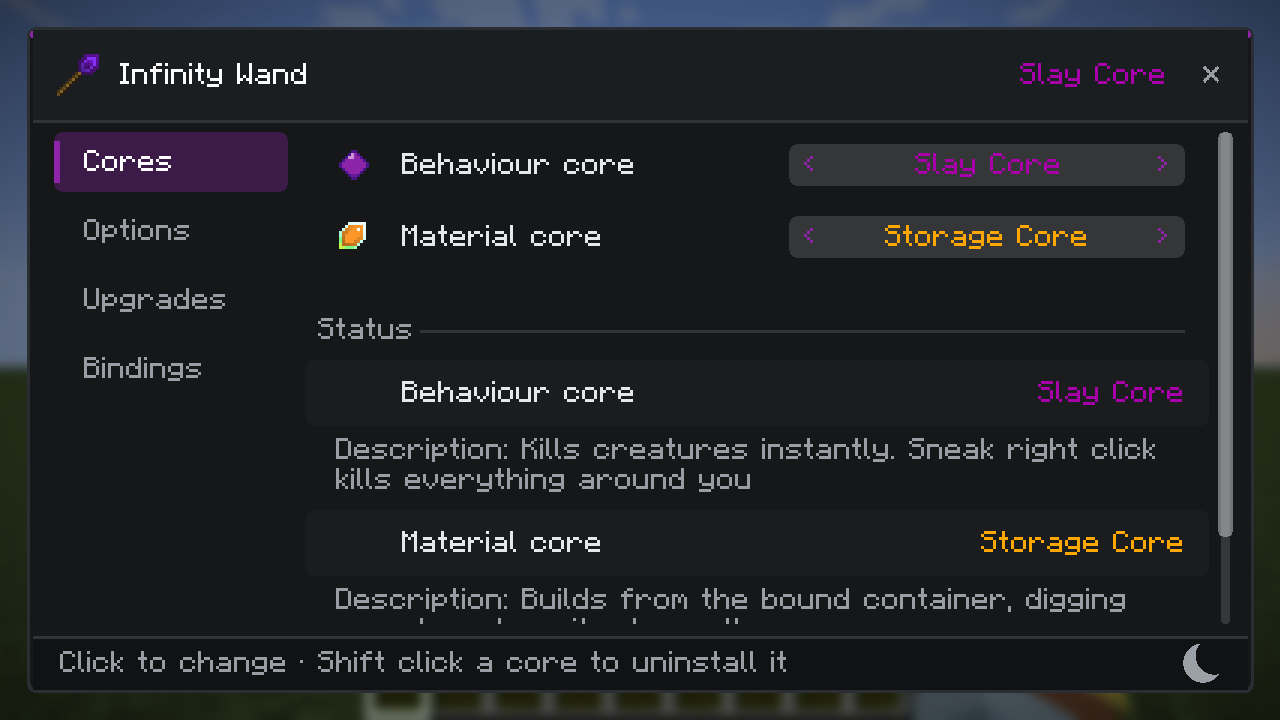
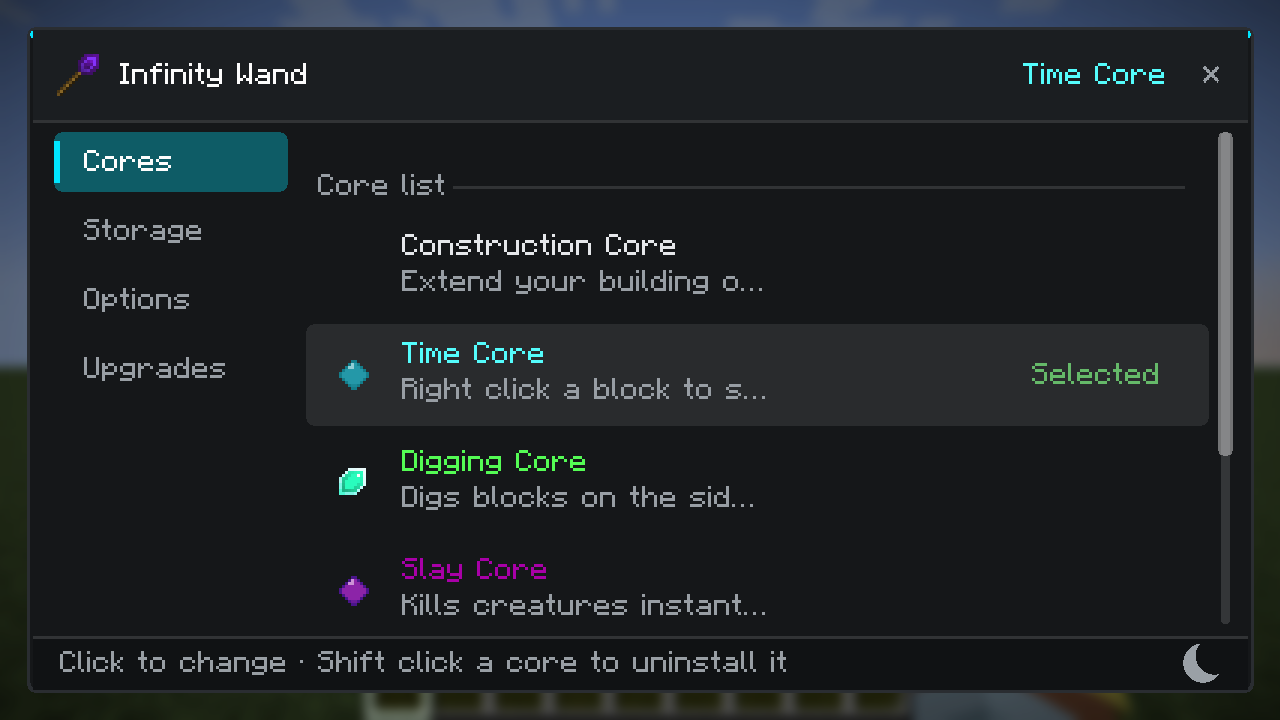
核心页改为列表选择，物品核心与绑定页合并为储存页（v2.16.34）
- 核心列表：点行即选核心（PacketWandOption）、当前项标记 Selected、SHIFT+左键卸下（PacketRemoveCore）
- WandRow.Cycle 增加 arrows 开关，列表行不再画值框与箭头
- Tab 改为 CORES/STORAGE/OPTIONS/UPGRADES；储存页 = 物品核心列表 + 完整描述 + 原绑定信息
- 语言新增 tab.storage / section.core_list / section.material_list / selected / core.select_hint
- 截图 docs/wand-screen-cores.png、docs/wand-screen-storage.png

diff --git a/src/main/java/dev/polaris_light/constructionwand/client/ScreenWand.java b/src/main/java/dev/polaris_light/constructionwand/client/ScreenWand.java
@@ -91,9 +91,9 @@ public class ScreenWand extends Screen
     private enum Tab
     {
         CORES("cores"),
+        STORAGE("storage"),
         OPTIONS("options"),
-        UPGRADES("upgrades"),
-        BINDINGS("bindings");
+        UPGRADES("upgrades");
 
         private final String key;
 
@@ -184,7 +184,7 @@ public class ScreenWand extends Screen
             case CORES -> buildCores();
             case OPTIONS -> buildOptions();
             case UPGRADES -> buildUpgrades();
-            case BINDINGS -> buildBindings();
+            case STORAGE -> buildStorage();
         }
         layout();
         layoutRows();
@@ -421,59 +421,68 @@ public class ScreenWand extends Screen
      * not repeated here: each of them has its own page on the options tab.
      */
     private void buildCores() {
-        IWandCore behaviour = wandOptions.cores.get();
-        IWandCore material = wandOptions.materialCores.get();
-
-        rows.add(coreRow(wandOptions.cores, behaviour, text("gui.core.behaviour")));
-        rows.add(coreRow(wandOptions.materialCores, material, text("gui.core.material")));
-
-        // What the two selected cores are, in full, and where their reach comes from. A binding is made in
-        // the world and cannot be edited here, so the panel only reports it.
-        List<WandRow> status = new ArrayList<>();
-        status.add(new WandRow.Text(text("gui.status.behaviour"), coreName(wandOptions.cores, behaviour), Ui.TEXT, true, null));
-        status.add(new WandRow.Paragraph(text("gui.status.description"),
+        // The list is the selector: every installed core is a row, and clicking one selects it. Cycling
+        // through a value box needed as many clicks as the wanted core was far away in the order, which
+        // stops working once a wand carries a handful of cores.
+        rows.add(new WandRow.Header(text("gui.section.core_list")));
+        addCoreList(wandOptions.cores);
+        rows.add(new WandRow.Paragraph(text("gui.status.description"),
                 translate(wandOptions.cores.getDescTranslation())));
-        status.add(new WandRow.Text(text("gui.status.material"), coreName(wandOptions.materialCores, material), Ui.TEXT, true, null));
-        status.add(new WandRow.Paragraph(text("gui.status.description"),
-                translate(wandOptions.materialCores.getDescTranslation())));
-        if(material instanceof ItemCoreStorage) {
-            List<ContainerBinding.Bound> bounds = boundContainers();
-            int capacity = ContainerBinding.getMaxContainers();
-            Component value = Component.literal(capacity < 0 ? String.valueOf(bounds.size())
-                    : bounds.size() + "/" + capacity);
-            status.add(new WandRow.Text(text("gui.info.bound"), value, Ui.TEXT, true, null));
-        }
-        else if(material instanceof ItemCoreProjectE) {
-            EmcStatus emc = emcStatus();
-            status.add(new WandRow.Text(text("gui.info.emc"), Component.literal(emc.value()), emc.color(), true,
-                    text("gui.binding.hint_projecte")));
-        }
-        else if(material instanceof ItemCoreAE) {
-            AeBinding ae = aeBinding();
-            status.add(new WandRow.Text(text("gui.info.ae_network"), ae.value(), ae.color(), true,
-                    text("gui.binding.hint_ae")));
-        }
 
         rows.add(new WandRow.Header(text("gui.section.status")));
-        rows.addAll(status);
+        rows.add(new WandRow.Text(text("gui.status.behaviour"),
+                coreName(wandOptions.cores, wandOptions.cores.get()), Ui.TEXT, true, null));
     }
 
     /**
-     * One core of the wand: its icon, its name as the value and the description of the selected one
-     * underneath, with the removal hint when there is more than the fallback to remove.
-     * <p>
-     * The name and the description come from the option itself, which is what keeps the two core lists
-     * apart: behaviour cores live under {@code option.cores} and material cores under
-     * {@code option.material_cores}.
+     * The storage page: which material core the wand takes its blocks from, and where that core is bound
+     * to. The two belong together, a storage core without its bound containers has nothing to give.
      */
-    private WandRow coreRow(WandUpgradesSelectable<IWandCore> option,
-                            IWandCore core, Component label) {
-        // The row only shows which core is chosen. Its description is written out in full in the status
-        // section below: as a subtitle it was cut off after one line, and as a tooltip it covered the very
-        // value the player was looking at.
-        Component name = translate(option.getValueTranslation());
-        return new WandRow.Cycle(coreIcon(core), label, null, name, option.isEnabled(), null, false,
-                back -> cycleCore(option, back));
+    private void buildStorage() {
+        rows.add(new WandRow.Header(text("gui.section.material_list")));
+        addCoreList(wandOptions.materialCores);
+        rows.add(new WandRow.Paragraph(text("gui.status.description"),
+                translate(wandOptions.materialCores.getDescTranslation())));
+        buildBindings();
+    }
+
+    /**
+     * One row per installed core, the chosen one marked. A shift click uninstalls that core, the hint in the
+     * footer says so.
+     */
+    private void addCoreList(WandUpgradesSelectable<IWandCore> option) {
+        IWandCore selected = option.get();
+        for(IWandCore core : option.getUpgrades()) {
+            boolean chosen = core == selected;
+            rows.add(new WandRow.Cycle(coreIcon(core), coreName(option, core), coreDesc(option, core),
+                    chosen ? text("gui.selected") : Component.empty(), true,
+                    chosen ? null : text("gui.core.select_hint"), false, false, back -> selectCore(option, core)));
+        }
+    }
+
+    private void selectCore(WandUpgradesSelectable<IWandCore> option, IWandCore core) {
+        if(Screen.hasShiftDown()) {
+            ResourceLocation id = core == null ? null : core.getRegistryName();
+            if(id != null && !id.toString().endsWith(":default") && !id.toString().endsWith(":none")) {
+                ModMessages.sendToServer(new PacketRemoveCore(id.toString()));
+                option.removeUpgrade(core);
+                refresh();
+            }
+            return;
+        }
+        if(option.get() == core) return;
+
+        option.set(core);
+        ModMessages.sendToServer(new PacketWandOption(option, false));
+        refresh();
+    }
+
+    /**
+     * @return the description of that core, from the key the option builds its names with
+     */
+    private Component coreDesc(WandUpgradesSelectable<IWandCore> option, IWandCore core) {
+        if(core == null || core.getRegistryName() == null) return Component.empty();
+        return translate(option.getKeyTranslation() + "." + core.getRegistryName() + ".desc");
     }
 
     /**
@@ -935,7 +944,7 @@ public class ScreenWand extends Screen
             case CORES -> text("gui.hint.change").copy().append(" · ").append(text("gui.hint.core_removable"));
             case OPTIONS -> text("gui.hint.change");
             case UPGRADES -> text("upgrade.toggle_hint");
-            case BINDINGS -> isStorageCore() ? text("gui.hint.drag_remove") : text("gui.hint.world_bind");
+            case STORAGE -> isStorageCore() ? text("gui.hint.drag_remove") : text("gui.hint.world_bind");
         };
     }
 

diff --git a/src/main/java/dev/polaris_light/constructionwand/client/ui/WandRow.java b/src/main/java/dev/polaris_light/constructionwand/client/ui/WandRow.java
@@ -279,9 +279,20 @@ public abstract class WandRow
         private final Component tooltip;
         private final java.util.function.Consumer<Boolean> onCycle;
         private final boolean striped;
+        private final boolean arrows;
 
         public Cycle(@Nullable ItemStack icon, Component label, @Nullable Component subtitle, Component value,
                      boolean enabled, @Nullable Component tooltip, boolean striped,
+                     java.util.function.Consumer<Boolean> onCycle) {
+            this(icon, label, subtitle, value, enabled, tooltip, striped, true, onCycle);
+        }
+
+        /**
+         * @param arrows whether the value sits in a box with the two arrows. A row that is a list entry
+         *               instead of a setting keeps its value plain, so nothing suggests stepping through it.
+         */
+        public Cycle(@Nullable ItemStack icon, Component label, @Nullable Component subtitle, Component value,
+                     boolean enabled, @Nullable Component tooltip, boolean striped, boolean arrows,
                      java.util.function.Consumer<Boolean> onCycle) {
             this.icon = icon;
             this.label = label;
@@ -290,6 +301,7 @@ public abstract class WandRow
             this.enabled = enabled;
             this.tooltip = tooltip;
             this.striped = striped;
+            this.arrows = arrows;
             this.onCycle = onCycle;
         }
 
@@ -323,7 +335,13 @@ public abstract class WandRow
                 int color = enabled ? Ui.TEXT_DIM : Ui.TEXT_OFF;
                 Ui.text(graphics, font, trim(font, subtitle, labelSpace), labelX, y + 18, color);
             }
-            renderValue(graphics, font, enabled, value, controlX(), right(), y + (height - 14) / 2);
+            if(arrows) {
+                renderValue(graphics, font, enabled, value, controlX(), right(), y + (height - 14) / 2);
+            }
+            else if(!value.getString().isEmpty()) {
+                Ui.textRight(graphics, font, trim(font, value, right() - controlX()),
+                        right() - 8, y + (height - 14) / 2 + 3, enabled ? Ui.OK : Ui.TEXT_OFF);
+            }
         }
 
         @Override

diff --git a/README-PLUS.md b/README-PLUS.md
@@ -28,6 +28,17 @@
 - `WandData.writeRoot/removeRoot/update`：同样只对手杖生效，任何漏网调用都写不进去。
 
 实测：手持 60 石头右键方块后 `components={…}` 里**没有** `custom_data`；手杖自己仍正常带 `wand_options`。
+## 核心页改为列表选择 + 储存页（2.16.34）
+
+- **核心页不再用「‹ 值 ›」循环选择**：改为 **核心列表**，每个已装的行为核心一行，点哪一行就选哪个（`selectCore` → `option.set(core)` + `PacketWandOption`），
+  当前核心在右侧显示 `Selected` 并高亮；SHIFT+左键卸下该核心（`PacketRemoveCore`）。列表下方是当前核心的完整描述（折行，不裁剪）。
+  行控件为此给 `WandRow.Cycle` 加了 `arrows` 开关：列表行不画值框和箭头，避免看起来像"继续点就能换"。
+- **物品核心与绑定页合并为「储存」页**（放在第 2 位）：页面内容 = 物品核心列表（同样点选）+ 完整描述 + 原来的绑定信息
+  （已绑定容器 `0/8`、ME 网络、EMC、绑定提示）；`Tab` 由 `CORES/OPTIONS/UPGRADES/BINDINGS` 改为 `CORES/STORAGE/OPTIONS/UPGRADES`。
+- 语言新增 `gui.tab.storage`（储存/Storage）、`gui.section.core_list`（核心列表/Core list）、`gui.section.material_list`（物品核心/Material cores）、
+  `gui.selected`（已选/Selected）、`gui.core.select_hint`（左键选用，SHIFT+左键卸下）。
+
+截图：`docs/wand-screen-cores.png`（核心列表）、`docs/wand-screen-storage.png`（储存页）。
 ## 强化时运升级（2.16.27）
 
 - **物品** `constructionwand:upgrade_super_fortune`（强化时运升级），已注册、有**自己的贴图** `textures/item/upgrade_super_fortune.png`
